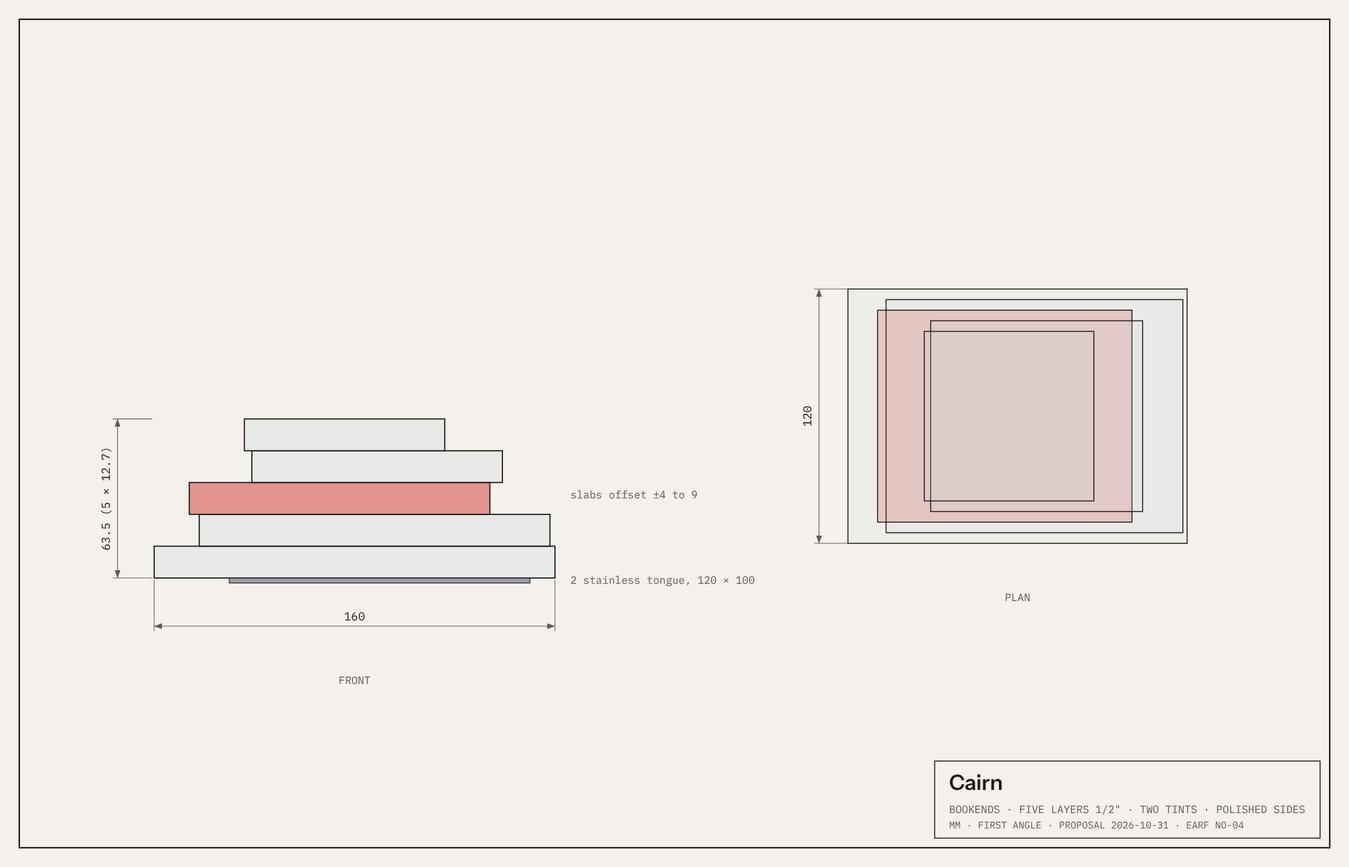
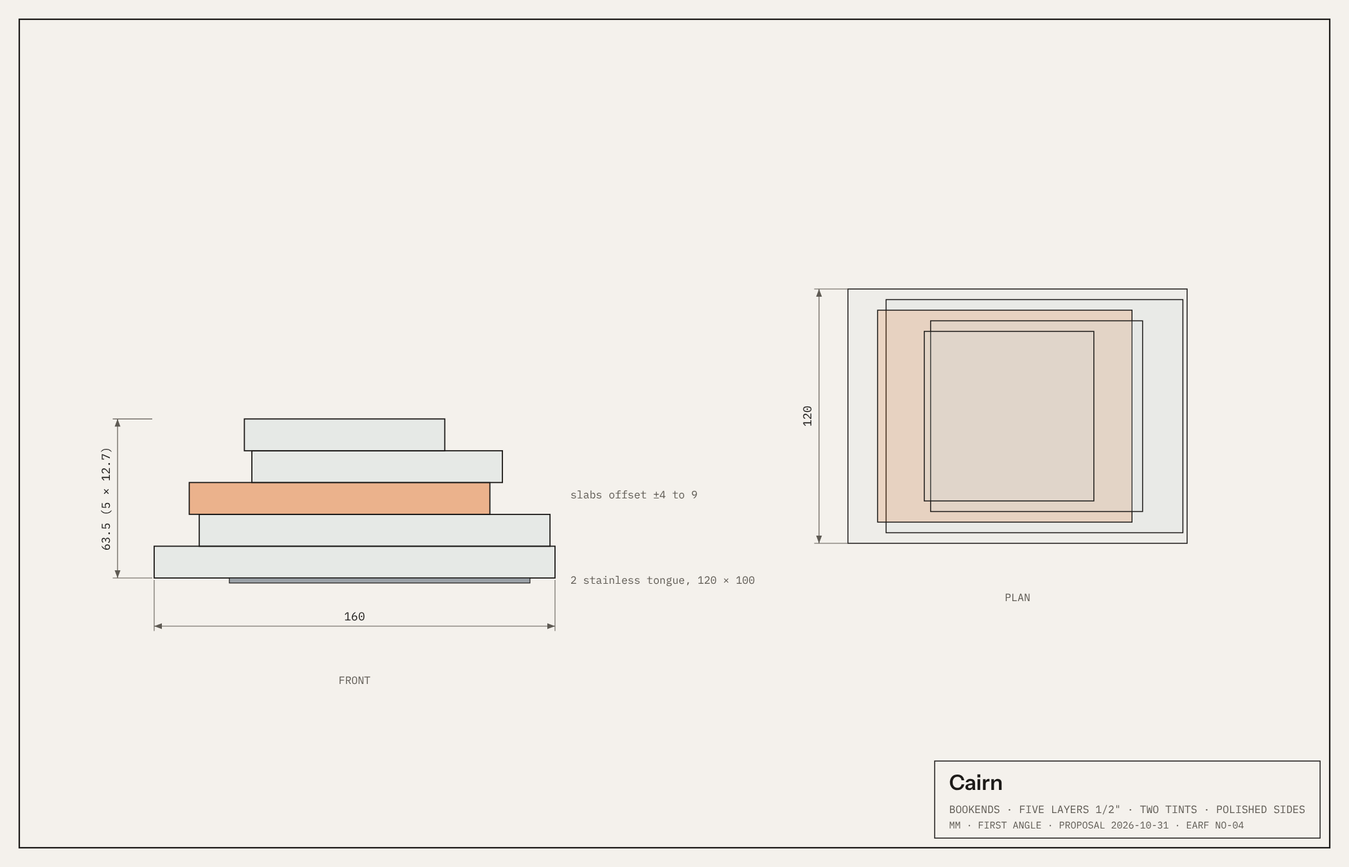
New objects: renderer fixes (bond faces as glass over a 0.1 mm gap, 48 bounces), light tints and pours, relit scenes, captions
Claude-Session: https://claude.ai/code/session_01BAaPTm6ZnW6Wr5zqpr5BWJ

Changed region(s): [[0.1238, 0.56, 0.3714, 0.5911]]

diff --git a/spinoffs/barkhorn/brandbook/newobjects/render_objects.py b/spinoffs/barkhorn/brandbook/newobjects/render_objects.py
@@ -22,17 +22,24 @@ TINTS = {
     'haze': ('373 Purple', 0.074, '#5B3197'),
     'fog': ('3030 Glass Green', 0.868, '#D5DFE0'),
     'smoke': ('2064 Gray', 0.293, '#57545F'),
+    'clear': ('0000 Clear', 0.92, '#F2F6F4'),     # no tint: only the two surfaces' loss
 }
+# Lighter custom pours for thick parts (est.: a mill pour at a lower dye loading; captioned "custom pour" wherever used)
+POUR = {'ember': 0.80, 'smoke': 0.82, 'haze': 0.76, 'poison': 0.80, 'ice': 0.885, 'dust': 0.88, 'acid': 0.885}
 T_REF, SURF = 0.003175, 0.92
-GAP = -0.00002   # bonded layers overlap by 0.02 mm: an index-matched joint with no air in it
+GAP = 0.0001   # bonded layers sit 0.1 mm apart behind transparent bond faces: an overlap corrupts Cycles' volume stack (rays leave still tinted, so stacks go black), and coplanar faces render black
 
 def srgb_lin(h):
     c = np.array([int(h[i:i + 2], 16) / 255 for i in (1, 3, 5)])
     return np.where(c <= 0.04045, c / 12.92, ((c + 0.055) / 1.055) ** 2.4)
 
 def sigma(tint):
-    """Absorption per metre for R, G, B so that 3.175 mm transmits the tint's hue at its published LT."""
-    _, lt, hx = TINTS[tint]
+    """Absorption per meter for R, G, B so that 3.175 mm transmits the tint's hue at its published LT
+    ('ember-pour' etc.: the same hue at the lighter custom pour's LT)."""
+    base = tint.replace('-pour', '')
+    _, lt, hx = TINTS[base]
+    if tint.endswith('-pour'):
+        lt = POUR[base]
     c = np.clip(srgb_lin(hx), 1e-4, 1)
     target = min(0.999, lt / SURF)
     Y = lambda t: 0.2126 * t[0] + 0.7152 * t[1] + 0.0722 * t[2]
@@ -54,7 +61,7 @@ def reset():
     sc.cycles.use_denoising = True
     sc.cycles.caustics_refractive = True
     sc.cycles.caustics_reflective = True
-    sc.cycles.max_bounces = 24; sc.cycles.transmission_bounces = 24; sc.cycles.volume_bounces = 4
+    sc.cycles.max_bounces = 48; sc.cycles.transmission_bounces = 48; sc.cycles.volume_bounces = 4
     sc.cycles.glossy_bounces = 8; sc.cycles.transparent_max_bounces = 128   # every bond face is a transparent bounce
     sc.cycles.blur_glossy = 0.3
     sc.view_settings.view_transform = 'AgX'
@@ -72,7 +79,10 @@ def acrylic(tint, edge='polished'):
     if name in bpy.data.materials:
         return bpy.data.materials[name]
     m = bpy.data.materials.new(name); m.use_nodes = True; nt = m.node_tree
-    if edge == 'bond':
+    if edge == 'bond':   # tested 2026-10-31: a transparent bond face turns a stack black in bands; a glass face over a
+        bpy.data.materials.remove(m)   # 0.1 mm gap reads as a laminate, faint countable lines (the hybrid shader keeps
+        return acrylic(tint, 'polished')   # shadows and inner rays straight, so no TIR darkening)
+    if False:
         nt.nodes.remove(nt.nodes['Principled BSDF'])
         tb = nt.nodes.new('ShaderNodeBsdfTransparent')
         nt.links.new(tb.outputs[0], nt.nodes['Material Output'].inputs['Surface'])
@@ -86,6 +96,14 @@ def acrylic(tint, edge='polished'):
     p.inputs['Transmission Weight'].default_value = 1.0
     p.inputs['IOR'].default_value = 1.49
     p.inputs['Roughness'].default_value = 0.0 if edge == 'polished' else 0.32
+    # Light paths: shadow and diffuse rays pass a transparent face, so the volume colors the shadow by the true path
+    # length (Cycles cannot sample a light through refraction cleanly; MNEE ignores volumes). Camera and glossy rays
+    # see the glass.
+    lp = nt.nodes.new('ShaderNodeLightPath'); mx = nt.nodes.new('ShaderNodeMath'); mx.operation = 'MAXIMUM'
+    nt.links.new(lp.outputs['Is Camera Ray'], mx.inputs[0]); nt.links.new(lp.outputs['Is Glossy Ray'], mx.inputs[1])
+    tr = nt.nodes.new('ShaderNodeBsdfTransparent'); mix = nt.nodes.new('ShaderNodeMixShader')
+    nt.links.new(mx.outputs[0], mix.inputs['Fac']); nt.links.new(tr.outputs[0], mix.inputs[1]); nt.links.new(p.outputs[0], mix.inputs[2])
+    nt.links.new(mix.outputs[0], nt.nodes['Material Output'].inputs['Surface'])
     s = sigma(tint); D = float(s.max())
     v = nt.nodes.new('ShaderNodeVolumeAbsorption')
     v.inputs['Color'].default_value = tuple(1 - s / D) + (1.0,)
@@ -237,89 +255,100 @@ def camera(loc, target, lens=50, fstop=0.0, focus=None):
 
 # ---------------------------------------------------------------------------------------------------------- the shots
 def shot_moho(sc):
-    sweep('#9A948B', 0.85, z0=-0.013, y_wall=0.35, R=0.25)
-    rec = basic('vinyl', '#0C0B0E', 0.16)
-    ring('platter', 0.152, 0, -0.013, 0.010, basic('mat', '#2B2A2E', 0.9))
-    ring('record', 0.1505, 0.0036, -0.0028, 0.0019, rec)
-    lab = ring('label', 0.050, 0.0036, -0.0009, 0.0008, basic('label', '#ECE8E1', 0.7)); caustic(lab, False, True)
-    ring('spindle', 0.0036, 0, -0.013, 0.030, basic('steel', '#C9CCCF', 0.15, 1.0))
-    t = ['ember', 'dust', 'acid', 'fog']
+    sweep('#CFC8BD', 0.85, z0=-0.075, y_wall=0.9, R=0.4)
+    # Mantle, as far as the frame needs it: the plinth and platter in Dust (2422), the record, the spindle
+    slab('plinth', -0.235, -0.19, -0.075, 0.235, 0.19, -0.049, acrylic('dust-pour'))
+    ring('platter', 0.155, 0, -0.047, 0.025, acrylic('dust-pour'))
+    rec = basic('vinyl', '#0C0B0E', 0.14)
+    ring('record', 0.1524, 0.0036, -0.0021, 0.0020, rec)
+    ring('label', 0.0505, 0.0036, -0.0002, 0.0001, basic('label', '#2C3442', 0.65))
+    ring('label-ring', 0.040, 0.0385, -0.0001, 0.00005, basic('label-ink', '#C9C2B6', 0.6))
+    ring('spindle', 0.0036, 0, -0.047, 0.060, basic('steel', '#C9CCCF', 0.15, 1.0))
+    t = ['dust-pour', 'acid-pour', 'ice-pour', 'clear']
     for i, tn in enumerate(t):
-        z0 = i * 0.0127
-        ring(f'moho{i}', 0.033, 0.0125, z0 + GAP / 2, 0.0127 - GAP, acrylic(tn),
+        ring(f'moho{i}', 0.033, 0.0125, i * 0.0127 + GAP / 2, 0.0127 - GAP, acrylic(tn),
              bond_top=acrylic(tn, 'bond') if i < 3 else None, bond_bottom=acrylic(tn, 'bond') if i > 0 else None)
     ring('brass', 0.01245, 0.0039, 0.0002, 4 * 0.0127 - 0.0006, basic('brass', '#B8923F', 0.22, 1.0))
     sc.render.resolution_x, sc.render.resolution_y = 1800, 1200
-    area('key', (-0.5, -0.35, 0.55), (0, 0, 0.02), 0.5, 14)
-    area('wallwash', (0, 0.05, 0.6), (0, 0.35, 0.15), 0.8, 30, '#FFF1E2')
-    spot('back', (-0.05, 0.55, 0.12), (0, 0, 0.025), 90, 14, 0.003)
-    spot('hard', (0.5, 0.15, 0.16), (0, 0, 0.025), 40, 16, 0.003)
-    camera((0.30, -0.46, 0.15), (0.0, 0.0, 0.022), lens=90, fstop=8.0)
+    area('window', (-0.9, 1.3, 0.35), (0, 0, 0.02), 0.9, 1400, '#FFF4E6')   # daylight from behind left: edges glow, shadows fall forward
+    area('key', (0.6, -0.8, 0.9), (0, 0, 0.0), 0.8, 30, '#EEF2F8')
+    area('rim', (0.7, 0.9, 0.25), (0, 0, 0.03), 0.4, 60, '#FFE8D0')
+    camera((0.24, -0.42, 0.11), (0.0, 0.0, 0.024), lens=60, fstop=5.6)
 
 def shot_lithos(sc):
-    sweep('#B9B2A6', 0.9, w=8, depth=6, height=4, R=0.8, y_wall=0.9)
+    # a room corner: oak floor, two plaster walls, a stack of books for scale, window light from the left
+    slab('floor', -1.5, -2.5, -0.03, 1.5, 0.8, 0.0, basic('oak', '#9A7650', 0.5, noise=0.04))
+    slab('wallB', -1.5, 0.8, 0, 1.5, 0.85, 3, basic('plaster', '#DCD5CA', 0.9, noise=0.1))
+    slab('wallL', -1.55, -2.5, 0, -1.5, 0.85, 3, basic('plaster2', '#DCD5CA', 0.9, noise=0.1))
     ring('base', 0.16, 0, 0, 0.02, basic('steel-black', '#1B1A1C', 0.35, 0.8))
     counts = [11, 8, 12, 9, 16, 7, 14, 10]
-    tints = ['smoke', 'haze', 'ice', 'poison', 'acid', 'dust', 'fog', 'ember']   # bottom to top
+    tints = ['smoke-pour', 'haze-pour', 'ice-pour', 'poison-pour', 'acid-pour', 'dust-pour', 'clear', 'ember-pour']   # bottom to top
+    P = 0.0127
     z = 0.02
     guides = []
     def guide(z):
         ring(f'guide{len(guides)}', 0.055, 0.0385, z + GAP / 2, 0.0056 - GAP, acrylic('fog'),
              bond_top=acrylic('fog', 'bond'), bond_bottom=acrylic('fog', 'bond') if z > 0.021 else None)
         guides.append(z)
-    for n, tn in zip(counts, tints):
+    for b, (n, tn) in enumerate(zip(counts, tints)):
         guide(z); z += 0.0056
-        ring(f'band{tn}', 0.055, 0.038, z + GAP / 2, n * 0.0127 - GAP, acrylic(tn), bond_top=acrylic(tn, 'bond'), bond_bottom=acrylic(tn, 'bond'))
-        z += n * 0.0127
+        satin = acrylic(tn, 'saw') if b % 2 else None   # as Core Sample: bands buffed clear or bead-blasted satin
+        ring(f'band{b}', 0.055, 0.038, z + GAP / 2, n * P - GAP, acrylic(tn), side_mat=satin, bond_top=acrylic(tn, 'bond'), bond_bottom=acrylic(tn, 'bond'))
+        z += n * P
     guide(z); z += 0.0056
     top = z
-    # the bore: an aluminium tube, slotted at each guide, with the LED line inside: light leaves only into the guides
-    ring('tube', 0.037, 0.034, 0.02, top - 0.02, basic('white-tube', '#EDEAE4', 0.5))
+    ring('opal', 0.037, 0.034, 0.02, top - 0.02, basic('mask', '#EDEAE4', 0.5))   # the filament's opal tube, masked between the guides
     for i, gz in enumerate(guides):
-        ring(f'slot{i}', 0.0372, 0.0368, gz + 0.0008, 0.004, emitter(f'slot{i}', '#FFC28A', 18))
-    ring('uplight', 0.03, 0, top - 0.004, 0.002, emitter('up', '#FFD2A0', 60))
+        ring(f'slot{i}', 0.0372, 0.0368, gz + 0.0006, 0.0044, emitter(f'slot{i}', '#FFB46E', 220))
+    ring('uplight', 0.03, 0, top - 0.004, 0.002, emitter('up', '#FFD2A0', 80))
+    for i, (w, d, h, c) in enumerate([(0.24, 0.17, 0.035, '#3E4A5A'), (0.22, 0.16, 0.03, '#C8BBA4'), (0.2, 0.15, 0.028, '#7A2E25'), (0.19, 0.13, 0.025, '#2E2B28')]):
+        zb = sum(x[2] for x in [(0.24, 0.17, 0.035), (0.22, 0.16, 0.03), (0.2, 0.15, 0.028), (0.19, 0.13, 0.025)][:i])
+        o = slab(f'book{i}', -w / 2, -d / 2, zb, w / 2, d / 2, zb + h, basic(f'bk{i}', c, 0.7))
+        o.location = (0.34, -0.12, 0); o.rotation_euler = (0, 0, 0.3 + 0.08 * i)
     sc.render.resolution_x, sc.render.resolution_y = 1200, 1800
-    area('key', (-1.3, -1.2, 1.5), (0, 0, 0.6), 1.0, 35, '#FFEBD8')
-    area('fill', (1.4, -1.6, 0.9), (0, 0, 0.6), 1.2, 8, '#DDE6F2')
-    area('ceiling-wash', (0, 0.0, 1.9), (0, 0.6, 2.4), 0.3, 25, '#FFD2A0')
-    camera((0.85, -2.05, 0.80), (0, 0, 0.57), lens=50, fstop=0)
+    area('window', (-1.45, -0.6, 1.5), (0.0, 0.0, 0.6), 1.4, 420, '#FFF1E2', size_y=1.0)
+    area('fill', (1.2, -2.2, 1.0), (0, 0, 0.6), 1.2, 40, '#DDE6F2')
+    camera((0.75, -2.05, 0.85), (0.08, 0, 0.6), lens=42, fstop=0)
 
 def shot_ionos(sc):
-    sweep('#CFC8BD', 0.85, z0=-0.04, y_wall=0.6, R=0.3)
-    slab('sideboard', -0.6, -0.3, -0.04, 0.6, 0.25, 0.0, basic('walnut', '#3B2618', 0.45, noise=0.05))
-    tn = 'ice'
+    sc.world.node_tree.nodes['Background'].inputs['Color'].default_value = lin('#D9D3CA')
+    sc.world.node_tree.nodes['Background'].inputs['Strength'].default_value = 0.55   # the room around the sideboard
+    sweep('#D6CFC4', 0.85, z0=-0.04, y_wall=0.6, R=0.3)
+    slab('sideboard', -0.6, -0.3, -0.04, 0.6, 0.25, 0.0, basic('limestone', '#E4DED3', 0.55, noise=0.08))
+    card = slab('card', -0.3, -0.75, 0.0, 0.3, -0.74, 0.4, basic('card', '#F4F1EC', 0.9)); card.visible_camera = False
+    tn = 'ice-pour'
     W, D, L = 0.2, 0.11, 0.0127
     x0, y0 = -W / 2, -D / 2
     for i in range(9):
         z0 = i * L + GAP / 2; z1 = (i + 1) * L - GAP / 2
-        if i == 4:   # the clear layer, a frame round a hidden light, its outer edges satin so the line glows softly
-            f = slab('fog', x0, y0, z0, x0 + W, y0 + D, z1, acrylic('fog'), acrylic('fog', 'saw'))
-            cut = slab('fogcut', x0 + 0.02, y0 + 0.02, z0 - 0.001, x0 + W - 0.02, y0 + D - 0.02, z1 + 0.001, acrylic('fog'))
-            mod = f.modifiers.new('cut', 'BOOLEAN'); mod.operation = 'DIFFERENCE'; mod.object = cut; mod.solver = 'EXACT'
-            bpy.context.view_layer.objects.active = f; bpy.ops.object.modifier_apply(modifier='cut')
-            bpy.data.objects.remove(cut)
-            slab('light', x0 + 0.03, y0 + 0.03, z0 + 0.002, x0 + W - 0.03, y0 + D - 0.03, z1 - 0.002, emitter('lineglow', '#FFD9B0', 60))
-        else:
-            slab(f'layer{i}', x0, y0, z0, x0 + W, y0 + D, z1, acrylic(tn),
-                 bond_top=acrylic(tn, 'bond') if i not in (3, 8) else None, bond_bottom=acrylic(tn, 'bond') if i not in (0, 5) else None)
-    ring('disc', 0.05, 0, 9 * L + 0.0005, 0.0127, acrylic(tn))
-    ring('disc-dot', 0.0016, 0, 9 * L + 0.0133, 0.0003, emitter('dot', '#FFD9B0', 30))
-    slab('backplate', x0 + 0.01, y0 + D + 0.0002, 0.006, x0 + W - 0.01, y0 + D + 0.0032, 9 * L - 0.006, basic('alu', '#8E9196', 0.35, 1.0))
+        bt = 'fog' if i == 4 else tn
+        mat = acrylic(bt); b = acrylic(bt, 'bond')
+        slab(f'layer{i}', x0, y0, z0, x0 + W, y0 + D, z1, mat, bond_top=b if i < 8 else None, bond_bottom=b if i > 0 else None)
+    # the top disc, the tuner: 24 detent marks round its rim, read against a lit index at the front edge
+    ring('disc', 0.05, 0, 9 * L + 0.0004, 0.0127, acrylic('ice-pour'))
+    for k in range(24):
+        a = 2 * math.pi * k / 24
+        o = slab(f'tick{k}', -0.0006, -0.004, 0, 0.0006, 0.0, 0.0004, basic('etch', '#F3F1EC', 0.4))
+        o.rotation_euler = (0, 0, a); o.location = (0.046 * math.sin(a), -0.046 * math.cos(a) + 0.0, 9 * L + 0.0131)
+    slab('index', -0.0012, y0 + 0.004, 9 * L - 0.0003, 0.0012, y0 + 0.01, 9 * L + 0.0002, emitter('index', '#FFD9B0', 25))
+    slab('backplate', -0.045, y0 + D + 0.0002, 0.004, 0.045, y0 + D + 0.0032, 0.030, basic('alu', '#8E9196', 0.35, 1.0))
+    # the machined pocket, honestly: the electronics in a black anodized tray, in the bottom two layers, seen through the block
+    slab('tray', -0.06, -0.035, 0.003, 0.06, 0.045, 0.024, basic('tray', '#1C1B1E', 0.4, 0.6))
     sc.render.resolution_x, sc.render.resolution_y = 1800, 1200
-    area('key', (-0.7, -0.6, 0.7), (0, 0, 0.06), 0.8, 70)
-    area('rim', (0.5, 0.6, 0.45), (0, 0, 0.06), 0.6, 45, '#E6ECF5')
-    spot('hard', (-0.2, 0.7, 0.3), (0, 0, 0.06), 60, 18, 0.004)
-    camera((0.42, -0.62, 0.30), (0.0, 0.0, 0.055), lens=70, fstop=5.6)
+    area('window', (-1.1, 0.9, 0.7), (0, 0, 0.06), 0.9, 500, '#FFF4E6')
+    area('rim', (0.6, 0.7, 0.35), (0, 0, 0.12), 0.5, 260, '#FFE8D0')
+    area('key', (0.5, -0.9, 0.8), (0, 0, 0.06), 0.8, 25, '#EEF2F8')
+    camera((0.30, -0.56, 0.31), (0.0, -0.005, 0.075), lens=70, fstop=5.6)
 
 def shot_cairn(sc):
-    sweep('#ECE8E1', 0.9)
-    slabs = [(0.16, 0.12, 0.0, 'fog'), (0.14, 0.11, 0.008, 'fog'), (0.12, 0.10, -0.006, 'ember'), (0.10, 0.09, 0.009, 'fog'), (0.08, 0.08, -0.004, 'fog')]
+    sweep('#C9C2B6', 0.9)
+    slabs = [(0.16, 0.12, 0.0, 'fog'), (0.14, 0.11, 0.008, 'fog'), (0.12, 0.10, -0.006, 'dust'), (0.10, 0.09, 0.009, 'fog'), (0.08, 0.08, -0.004, 'fog')]
     cols = ['#3A3634', '#5C5650', '#C8BBA4', '#2F3B4A', '#8A7F70', '#1E1E22']
     rng = np.random.default_rng(3)
     books = [(float(rng.uniform(0.024, 0.038)), float(rng.uniform(0.2, 0.245)), float(rng.uniform(0.13, 0.155))) for _ in cols]
     span = sum(b[0] + 0.001 for b in books)
     for side, sgn in (('L', -1), ('R', 1)):
-        cx = sgn * (span / 2 + 0.08)   # each stack's inner edge meets the books
+        cx = sgn * (span / 2 + 0.08)
         for i, (w, d, off, tn) in enumerate(slabs):
             z0 = i * 0.0127 + GAP / 2
             x = cx - sgn * off
@@ -330,13 +359,14 @@ def shot_cairn(sc):
         slab(f'book{c}', x, -dp / 2, 0.0, x + th, dp / 2, hgt, basic(f'cloth{c}', c, 0.75))
         x += th + 0.001
     sc.render.resolution_x, sc.render.resolution_y = 1800, 1200
-    area('key', (-0.9, -0.8, 1.0), (0, 0, 0.05), 1.0, 90)
-    spot('back', (-0.55, 0.65, 0.28), (-span / 2 - 0.08, 0, 0.02), 220, 16, 0.004, '#FFF0DA')
-    area('fill', (0.6, -0.9, 0.3), (-0.2, 0, 0.04), 0.8, 25, '#E6ECF5')
-    camera((-0.02, -0.46, 0.13), (-span / 2 - 0.07, 0, 0.035), lens=65, fstop=5.6)
+    area('window', (-1.2, 0.9, 0.35), (-span / 2 - 0.08, 0, 0.02), 0.7, 260, '#FFF4E6')
+    area('key', (0.4, -1.0, 0.9), (-0.15, 0, 0.04), 1.0, 12, '#EEF2F8')
+    camera((-0.02, -0.46, 0.21), (-span / 2 - 0.05, 0, 0.04), lens=50, fstop=8)
 
 def shot_bedrock(sc):
-    sweep('#C9C2B6', 0.85)
+    sc.world.node_tree.nodes['Background'].inputs['Color'].default_value = lin('#D9D3CA')
+    sc.world.node_tree.nodes['Background'].inputs['Strength'].default_value = 0.4
+    sweep('#C9C2B6', 0.85, w=10.0, depth=6.0)
     prof = [(0, 0), (0.30, 0), (0.30, 0.15), (0.25, 0.15), (0.25, 0.185), (0.18, 0.185), (0.18, 0.215), (0.09, 0.215), (0.09, 0.23), (0, 0.23)]
     tn = 'dust'
     for xi in (-0.235, 0.235 - 0.0254):
@@ -358,8 +388,8 @@ def shot_bedrock(sc):
         o.location = (x, 0.0, 0.02); o.rotation_euler = (0, lean, 0)
         x += th + 0.0015
     sc.render.resolution_x, sc.render.resolution_y = 1800, 1200
-    area('key', (-1.2, -1.0, 1.3), (0, 0, 0.15), 1.4, 220)
-    spot('sun', (-1.0, 0.5, 0.5), (-0.235, 0, 0.1), 200, 22, 0.004, '#FFF0DA')
+    area('key', (-1.2, -1.0, 1.3), (0, 0, 0.15), 1.4, 120)
+    spot('sun', (-1.1, 0.9, 0.55), (-0.2, -0.1, 0.05), 900, 26, 0.004, '#FFF0DA')   # low daylight from behind: the plates throw amber forward
     area('fill', (1.0, -1.4, 0.6), (0, 0, 0.15), 1.2, 40, '#E6ECF5')
     camera((-0.95, -0.75, 0.42), (0.05, 0, 0.14), lens=50, fstop=0)
 
@@ -370,18 +400,18 @@ def shot_relief(sc):
     k = 0.001; th = 0.0056
     slab('backing', -0.3, -0.006, 0.9, 0.3, 0.0, 1.5, basic('white-back', '#F2F0EC', 0.6))
     base_m = acrylic('fog')
-    slab('base', -0.3, -0.006 - th - 0.00002, 0.9, 0.3, -0.0060001, 1.5, base_m)
+    slab('base', -0.3, -0.006 - th + GAP / 2, 0.9, 0.3, -0.006 - GAP / 2, 1.5, base_m)
     for lev, loops in layers():   # each contour island a prism (the terrain is all hills, so no loop has a hole)
         for li, l in enumerate(loops):
             pts = [(float(x) * k, float(y) * k) for x, y in l[::2]]
             if len(pts) > 2:
                 area_ = sum(pts[i][0] * pts[(i + 1) % len(pts)][1] - pts[(i + 1) % len(pts)][0] * pts[i][1] for i in range(len(pts)))
                 if area_ < 0: pts = pts[::-1]
-            o = extrude_poly(f'lev{lev}-{li}', pts, 0, th + 0.00002, base_m, cap_mat=acrylic('fog', 'bond'))
+            o = extrude_poly(f'lev{lev}-{li}', pts, 0, th - GAP, base_m)
             o.rotation_euler = (math.pi / 2, 0, 0)
             o.location = (0, -0.006 - th - (lev - 1) * th + 0.0, 1.2)
     sc.render.resolution_x, sc.render.resolution_y = 1800, 1200
-    spot('gallery', (-0.7, -1.3, 2.3), (0, -0.03, 1.2), 900, 22, 0.01, '#FFEEDC')
+    area('bar', (0.0, -0.075, 1.53), (0.0, -0.01, 0.95), 0.6, 120, '#FFEEDC', size_y=0.015)   # its LED bar: a line of light just above the top edge, washing down
     area('room', (1.2, -2.2, 1.3), (0, 0, 1.2), 2.0, 60, '#E8EEF6')
     camera((0.55, -1.55, 1.25), (0.0, -0.03, 1.2), lens=50, fstop=0)
 
@@ -412,7 +442,7 @@ def shot_meridian(sc):
     area('key', (-1.2, -1.6, 2.0), (0, 0, cz), 1.2, 35)
     spot('rake', (-0.9, -0.55, 2.0), (0.05, -0.03, cz), 380, 20, 0.006, '#FFF1E0')
     area('fill', (1.2, -1.6, 1.3), (0, 0, cz), 1.2, 14, '#E6ECF5')
-    camera((0.42, -1.45, 1.33), (0.02, -0.03, cz - 0.01), lens=55, fstop=0)
+    camera((0.26, -0.98, 1.38), (0.02, -0.03, cz - 0.005), lens=55, fstop=0)
 
 SHOTS = dict(moho=shot_moho, lithos=shot_lithos, ionos=shot_ionos, cairn=shot_cairn, bedrock=shot_bedrock, relief=shot_relief, meridian=shot_meridian)
 

diff --git a/spinoffs/barkhorn/brandbook/newobjects/build_page.py b/spinoffs/barkhorn/brandbook/newobjects/build_page.py
@@ -13,15 +13,15 @@ def md(t):
     return re.sub(r'\*\*(.+?)\*\*', r'<strong>\1</strong>', t)
 
 CAP = {
- 'moho': 'Render. Moho on a record: Ember, Dust and Acid under a Fog top, the brass core seen through them. Through the full 66 mm, stock 2423 Ember reads near-black, as it would in hand.',
- 'lithos': 'Render. Lithos lit: the clear guides glow between the eight bands. In stock sheet the deep bands (Ember, Haze, Poison, Smoke) read near-black, as here. Rendered before the switch to Core Sample\'s filament and its clear-and-satin bands.',
- 'ionos': 'Render. Ionos in Ice, its clear middle layer lit as a line; the top disc turns to tune. Through 200 mm of Ice the block reads blue-gray; the color lives at the edges.',
- 'cairn': 'Render. Cairn in Fog with one layer of Ember; faces and sides polished. Seen edge-on, the Ember slab reads near-black.',
- 'bedrock': 'Render. Bedrock in Dust, the inch-thick end-plates stepped, three steel rails. Dust (2422) stays warm and clear at this thickness.',
- 'relief': 'Render. Relief in Fog on a white backing: the green deepens with each layer, like a sea chart in glass.',
+ 'moho': 'Render. Moho on Mantle\'s platter, at true size against a 12-inch record: Dust, Acid and Ice under a Clear top, the brass core seen through them. Lighter custom pours of Dust, Acid and Ice (est.), as is Mantle\'s Dust plinth here; in stock sheet the puck reads darker.',
+ 'lithos': 'Render. Lithos in a room corner, books for scale: the filament shows only at the clear guides, which glow warm between the eight bands, buffed clear and satin in turn at Core Sample\'s 12.7 mm pitch. The colored bands are lighter custom pours (est.); in stock sheet the deep ones read near-black.',
+ 'ionos': 'Render. Ionos in a lighter custom pour of Ice (est.), its near-clear middle layer unlit; the top disc turns to tune, 24 detents read against the lit index at the front. The electronics tray shows through the bottom layers, as it would.',
+ 'cairn': 'Render. Cairn in Fog with one layer of Dust, stock sheet; faces as cast, sides flame-polished. Window light from behind throws the Dust forward.',
+ 'bedrock': 'Render. Bedrock in stock Dust (2422), the inch-thick end-plates stepped, three steel rails; low daylight from behind throws the amber onto the floor.',
+ 'relief': 'Render. Relief in Fog, lit by its own bar along the top edge: the green deepens with each of the twelve layers, like a sea chart in glass.',
  'meridian': 'Render. Meridian at ten past two: the Acid hour disc and the Ice minute disc cross, and where they overlap the light is green.',
 }
-TINT_OF = {'meridian': 'poison', 'moho': 'ember', 'lithos': 'smoke', 'ionos': 'ice', 'cairn': 'fog', 'bedrock': 'dust', 'relief': 'fog'}
+TINT_OF = {'meridian': 'poison', 'moho': 'dust', 'lithos': 'smoke', 'ionos': 'ice', 'cairn': 'fog', 'bedrock': 'dust', 'relief': 'fog'}
 
 def images():
     for o in six.OBJECTS:
@@ -141,7 +141,7 @@ footer {{ padding-block: 24px 48px; font-family: var(--mono); font-size: 12px; c
 <section class="method">
   <div>
     <h3>How the tints are rendered</h3>
-    <p>Each tint is a volume that absorbs light by the Beer–Lambert law, calibrated so that 3.2 mm of it passes the light that AC Plastics' TruCast stock publishes for the nearest code, in the tint's own hue, with about 8% lost at the two faces. Index 1.49; polished faces clear, sawn faces satin; bonded layers meet at index-matched joints; caustics on. That is why the deep tints read deep: 2423 Red passes 14% through 3.2 mm, so a thick Ember part is nearly black except where light runs through an edge, and why Lithos lights its clear layers rather than its colors.</p>
+    <p>Each tint is a volume that absorbs light by the Beer–Lambert law, calibrated so that 3.2 mm of it passes the light that AC Plastics' TruCast stock publishes for the nearest code, in the tint's own hue, with about 8% lost at the two faces. Index 1.49; polished faces clear, sawn faces satin; bonded layers show as faint, countable joint lines, as a laminate does; caustics on. That is why the deep tints read deep: 2423 Red passes 14% through 3.2 mm, so a thick Ember part is nearly black except where light runs through an edge. So thick parts here are in the light stock tints (Dust, Fog) or in lighter custom pours, captioned as such, and Lithos lights its clear layers rather than its colors.</p>
     <p class="note">Prior art set the rules: thin countable layers with bond lines, no polished monoliths, no ombré, no neon, nothing embedded, and names clear of Strata, Skyline, Totem and Voie. The long list, the prior art, the costing and the scene files are in the repository under spinoffs/barkhorn/brandbook/newobjects/.</p>
   </div>
   <div>

diff --git a/spinoffs/barkhorn/brandbook/newobjects/six.py b/spinoffs/barkhorn/brandbook/newobjects/six.py
@@ -51,7 +51,7 @@ OBJECTS = [
   dims=[('Block', '200 W × 110 D × 115 H mm (nine layers of 12.7 mm)'), ('Top disc', 'Ø 100 × 12.7 mm, on a bearing, 24 detents'),
         ('Light', 'a 5.6 mm clear 3030 layer at mid-height, edge-lit from inside'), ('Inside', 'a machined pocket: a single-board computer, a DAC board, a magnetic angle sensor'),
         ('Outputs', 'RCA line, optical, coaxial; USB-C power'), ('Weight', 'about 2.4 kg (est.)'), ('Compliance', 'FCC Part 15B on the product; the Wi-Fi module carries its own grant')],
-  process='Laminate the block, machine the pocket and the top recess, polish all faces; turn the top disc; fit the electronics, sensor and bearing; back plate in anodised aluminum.',
+  process='Laminate the block, machine the pocket and the top recess, polish all faces; turn the top disc; fit the electronics, sensor and bearing; back plate in anodized aluminum.',
   bom=[('Sheet: nine layers of 1/2", 200 × 110', lambda: sheet('1/2', 9 * 0.2 * 0.11)), ('Top disc and clear layer', lambda: sheet('1/2', 0.11**2) + sheet('1/4', 0.2 * 0.11)),
        ('Lamination, pocket machining, polishing: 2.5 h', lambda: RATE * 2.5), ('Top disc turning: 25 min', lambda: RATE * 0.4),
        ('Single-board computer (2 GB class)', lambda: 50), ('DAC board with outputs', lambda: 70), ('Angle sensor, bearing, detent', lambda: 18),
@@ -60,8 +60,8 @@ OBJECTS = [
   price=1450, role='A listening object below Tropos\'s price: a gift for the hi-fi crowd, a hotel room\'s radio, the add-on that makes a pair complete.'),
  dict(key='cairn', name='Cairn', what='Bookends', tag='Stones stacked to mark a way.',
   concept=("Five slabs of half-inch sheet, each smaller than the one below and set a little off its center, bonded into a stepped stack "
-           "like stones on a trail. Two tints to a pair, never a rainbow: Fog with one layer of Ember, say, or Smoke with one of Acid. The slabs' faces are the sheet's "
-           "own polish and their sides are flame-polished, so the stack reads as layered glass, the Ember running through it. A stainless tongue under the "
+           "like stones on a trail. Two tints to a pair, never a rainbow: Fog with one layer of Dust, say, or Smoke with one of Acid. The slabs' faces are the sheet's "
+           "own polish and their sides are flame-polished, so the stack reads as layered glass, the Dust running through it. A stainless tongue under the "
            "bottom slab goes under the books and holds them."),
   dims=[('Each', 'about 160 W × 120 D × 64 H mm (five layers of 12.7 mm)'), ('Slabs', '160×120, 140×110, 120×100, 100×90, 80×80 mm, offset ±8 mm'),
         ('Tongue', '2 mm stainless, 120 × 100 mm, let into the base'), ('Weight', 'about 1.1 kg each (est.)')],

diff --git a/spinoffs/barkhorn/brandbook/newobjects/drawings.py b/spinoffs/barkhorn/brandbook/newobjects/drawings.py
@@ -53,7 +53,7 @@ class D:
 def moho():
     d = D('Moho', 'record weight · four layers 1/2" · brass core', '01'); k = 5.5
     x0, y0 = 220, 560; w, h = 66 * k, 50.8 * k
-    tints = ['ember', 'dust', 'acid', 'fog']
+    tints = ['dust', 'acid', 'ice', 'fog']
     for i, t in enumerate(tints):
         d.rect(x0, y0 - (i + 1) * 12.7 * k, w, 12.7 * k, fill=TINT[t], op=0.35, sw=1.2)
     d.rect(x0 + (66 - 25) / 2 * k, y0 - h, 25 * k, h, fill='#B08D57', op=0.35, sw=1, dash='6 4')
@@ -126,7 +126,7 @@ def ionos():
 def cairn():
     d = D('Cairn', 'bookends · five layers 1/2" · two tints · polished sides', '04'); k = 2.6
     x0, y0 = 160, 600
-    slabs = [(160, 0, 'fog'), (140, 8, 'fog'), (120, -6, 'ember'), (100, 9, 'fog'), (80, -4, 'fog')]
+    slabs = [(160, 0, 'fog'), (140, 8, 'fog'), (120, -6, 'dust'), (100, 9, 'fog'), (80, -4, 'fog')]
     for i, (sw_, off, t) in enumerate(slabs):
         cx = x0 + 80 * k + off * k
         d.rect(cx - sw_ / 2 * k, y0 - (i + 1) * 12.7 * k, sw_ * k, 12.7 * k, fill=TINT[t], op=0.45, sw=1.2)

diff --git a/spinoffs/barkhorn/brandbook/newobjects/render_objects_tints.py b/spinoffs/barkhorn/brandbook/newobjects/render_objects_tints.py
@@ -8,4 +8,5 @@ TINTS = {
     'haze': ('373 Purple', 0.074, '#5B3197'),
     'fog': ('3030 Glass Green', 0.868, '#D5DFE0'),
     'smoke': ('2064 Gray', 0.293, '#57545F'),
+    'clear': ('0000 Clear', 0.92, '#F2F6F4'),
 }

diff --git a/spinoffs/barkhorn/brandbook/newobjects/SIX.md b/spinoffs/barkhorn/brandbook/newobjects/SIX.md
@@ -92,7 +92,7 @@ A block of nine bonded layers of one tint, 200 × 110 × 115 mm, with a near-cle
 | Weight | about 2.4 kg (est.) |
 | Compliance | FCC Part 15B on the product; the Wi-Fi module carries its own grant |
 
-**Materials and process.** Laminate the block, machine the pocket and the top recess, polish all faces; turn the top disc; fit the electronics, sensor and bearing; back plate in anodised aluminum.
+**Materials and process.** Laminate the block, machine the pocket and the top recess, polish all faces; turn the top disc; fit the electronics, sensor and bearing; back plate in anodized aluminum.
 
 | BOM line (a run of 100, est.) | USD |
 |---|---|
@@ -116,7 +116,7 @@ A block of nine bonded layers of one tint, 200 × 110 × 115 mm, with a near-cle
 
 *Stones stacked to mark a way.*
 
-Five slabs of half-inch sheet, each smaller than the one below and set a little off its center, bonded into a stepped stack like stones on a trail. Two tints to a pair, never a rainbow: Fog with one layer of Ember, say, or Smoke with one of Acid. The slabs' faces are the sheet's own polish and their sides are flame-polished, so the stack reads as layered glass, the Ember running through it. A stainless tongue under the bottom slab goes under the books and holds them.
+Five slabs of half-inch sheet, each smaller than the one below and set a little off its center, bonded into a stepped stack like stones on a trail. Two tints to a pair, never a rainbow: Fog with one layer of Dust, say, or Smoke with one of Acid. The slabs' faces are the sheet's own polish and their sides are flame-polished, so the stack reads as layered glass, the Dust running through it. A stainless tongue under the bottom slab goes under the books and holds them.
 
 | Dimension | |
 |---|---|
